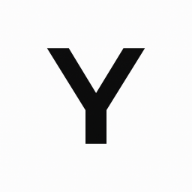
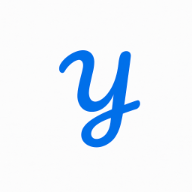
Complete mainHero section

Changed region(s): [[0.25, 0.25, 0.75, 0.7812]]

diff --git a/index.html b/index.html
@@ -12,10 +12,11 @@
     <link rel="stylesheet" href="style.css">
     <script src="javascript.js" defer></script>
     <link href="https://fonts.googleapis.com/css2?family=Inter:wght@100..900&display=swap" rel="stylesheet">
+    <link href="https://fonts.googleapis.com/css2?family=Pacifico&display=swap" rel="stylesheet">
 </head>
 <body>
     <nav>
-        <h1 class="primaryTextColor">Yhung's <span class="accentTextColor">Devfolio</span></h1>
+        <h1>Sites by <span class="accentTextColor">Yhung</span></h1>
         <div class="navRight">
             <ul>
                 <li>My Story</li>
@@ -25,10 +26,17 @@
         </div>
     </nav>
     <main>
-        <img src="icons/android-chrome-512x512.png" alt="">
-        <img src="icons/android-chrome-512x512.png" alt=""> <!-- testing navbar -->
-        <img src="icons/android-chrome-512x512.png" alt="">
-        <img src="icons/android-chrome-512x512.png" alt="">
+        <section class="mainHero" aria-label="Introduction">
+            <div class="mainHeroLeft">
+                <div>
+                    <h1>I'm <span class="accentTextColor">Yhung</span>.</h1>
+                    <h3>Web Developer & <span class="accentTextColor">Designer</span>.</h3>
+                    <p>Clean code. Sleek design. Real results.</p>
+                </div>
+                <button>Get in touch</button>
+            </div>
+            <img src="assets/svg/undraw_developer-activity_dn7p.svg" alt="Illustration of a laptop coding">
+        </section>
     </main>
     <footer>
 

diff --git a/style.css b/style.css
@@ -1,6 +1,7 @@
 * {
     padding: 0;
     margin: 0;
+    box-sizing: border-box;
     font-family: "Inter", "Segoe UI", "Helvetica Neue", sans-serif;
 }
 
@@ -8,7 +9,7 @@ body {
     background-color: #F8F9FA;
 }
 
-.primaryTextColor {
+*, .primaryTextColor {
     color: #212529;
 }
 
@@ -41,10 +42,58 @@ nav {
     align-items: center;
 }
 
+nav > h1 {
+    font-size: 1.5rem;
+}
+
 .navRight > ul{
     display: flex;
     gap: 2rem;
     list-style: none;
     font-size: medium;
     font-weight: 500;
+}
+
+.mainHero {
+    font-size: x-large;
+    padding: 2rem 12rem;
+    display: flex;  
+    box-shadow: inset 0px 0px 2px 0px black;
+    gap: 0.5rem;
+    justify-content: space-between;
+    align-items: center;
+}
+
+.mainHeroLeft {
+    display: flex;
+    flex-direction: column;
+    justify-content: space-between;
+    gap: 2rem;
+}
+.mainHeroLeft > div > h3 span {
+    font-family: Pacifico;
+}
+
+.mainHeroLeft > button {
+    height: 2.5rem;
+    width: 10rem;
+    border: none;
+    border-radius: 50px;
+    background-color: white;
+    box-shadow: 0px 0px 3px 0px black;
+    font-size: medium;
+    font-weight: 500;
+}
+
+.mainHeroLeft > button:hover {
+    box-shadow: 0px 0px 2px 0px black;
+}
+
+.mainHeroLeft > button:active {
+    box-shadow: inset 0px 0px 3px 0px black;
+}
+
+.mainHero > img {
+    height: auto;
+    width: 15rem;
 }
